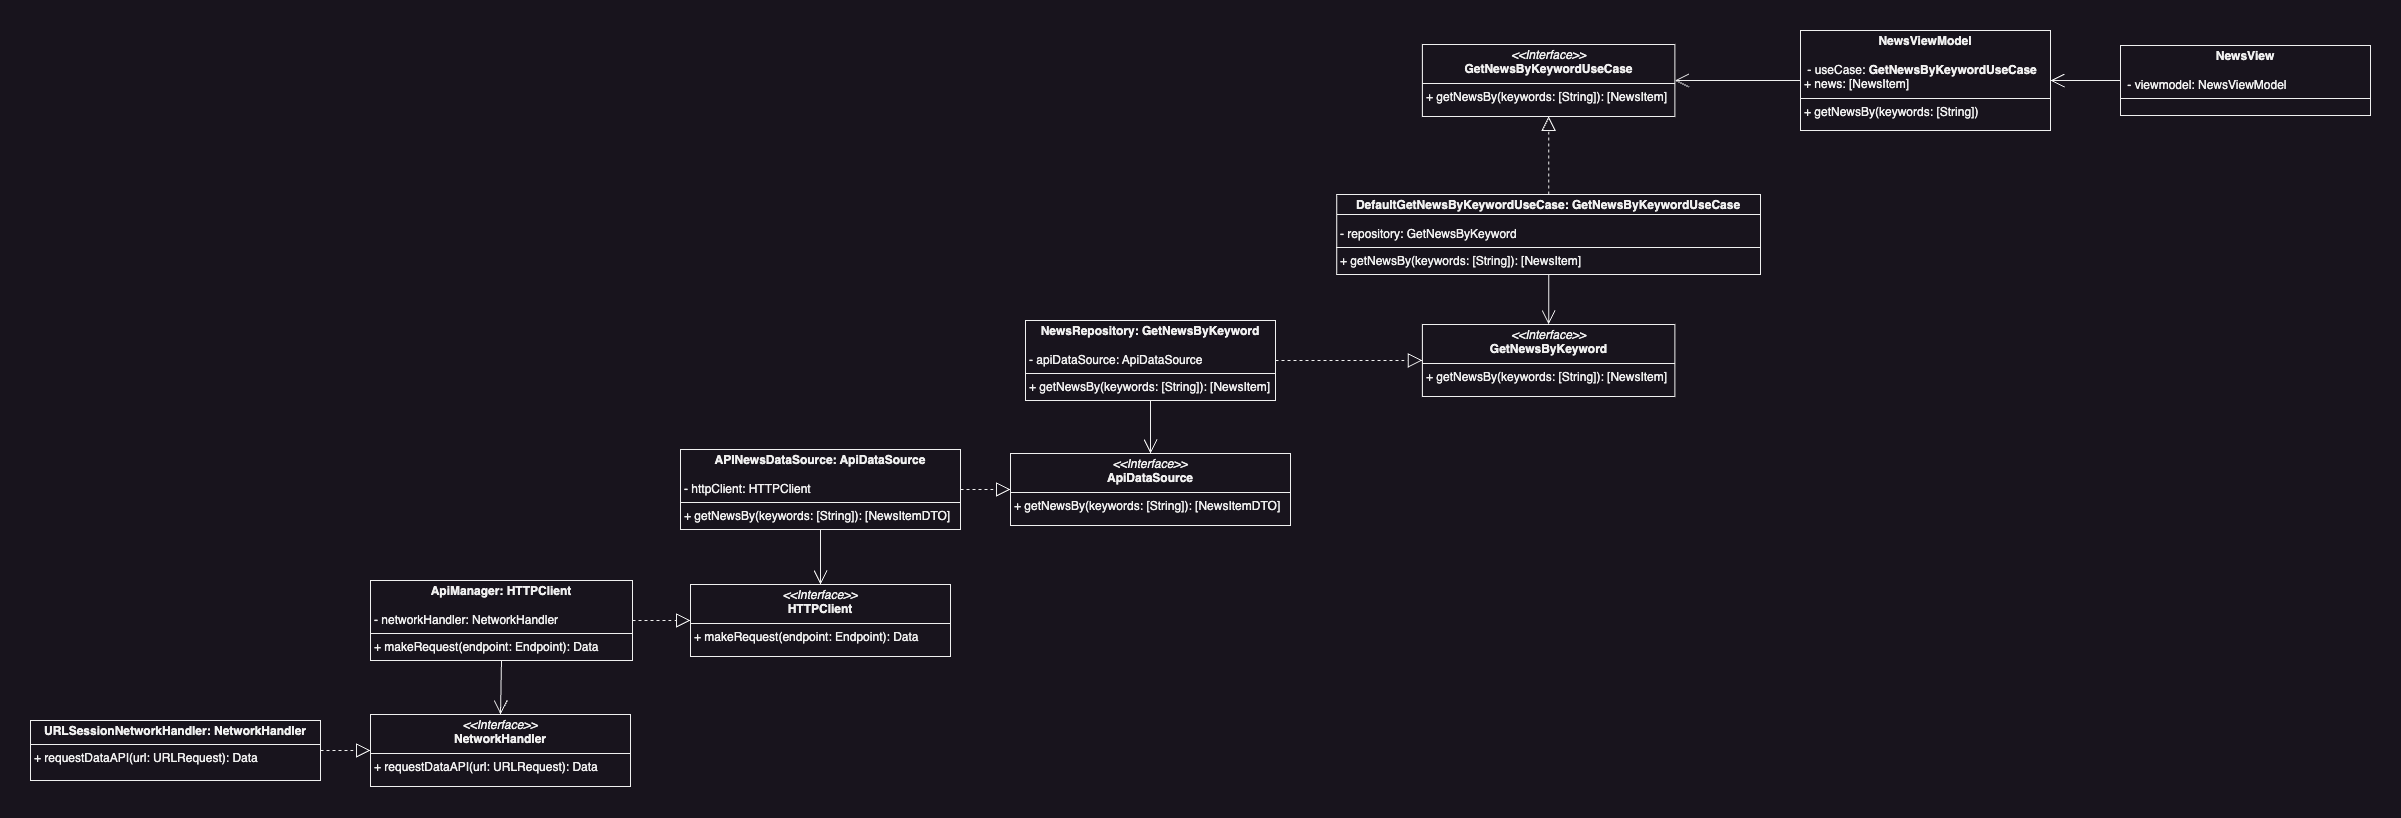
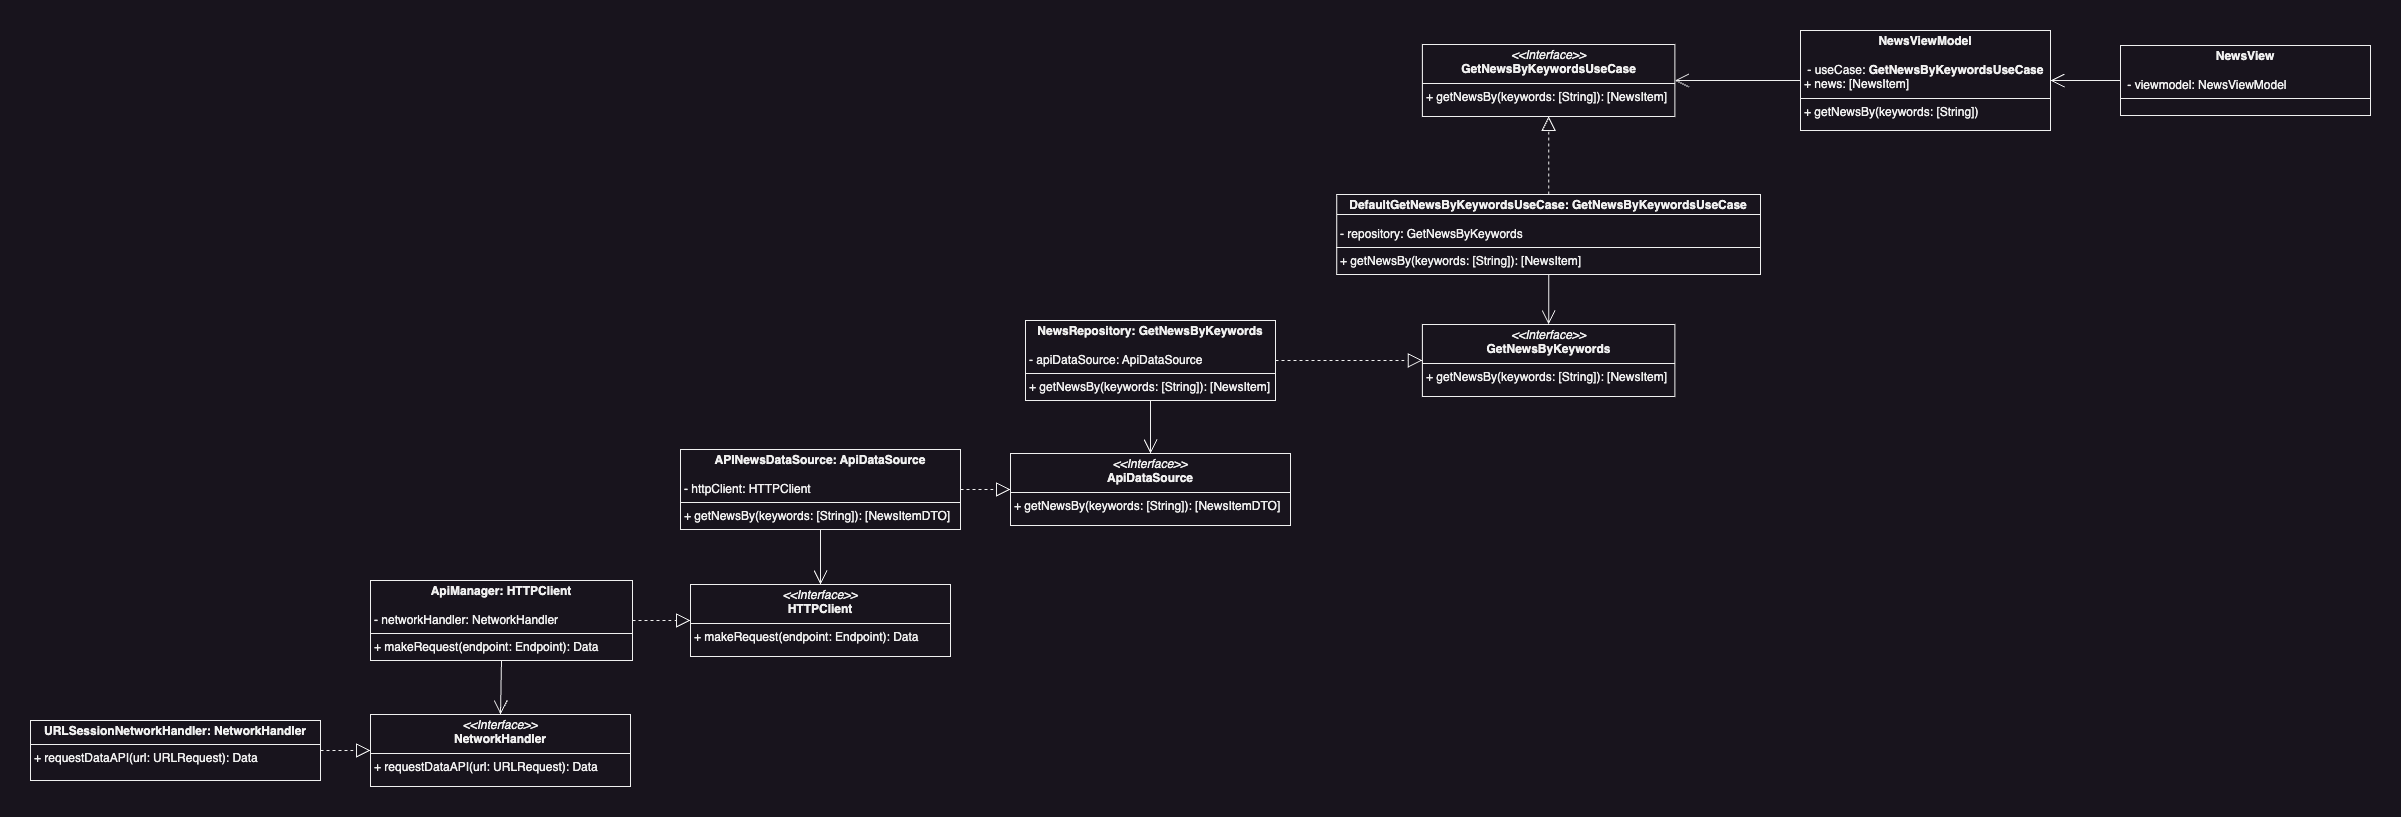
add content and new image

diff --git a/002_clean_architecture/article.md b/002_clean_architecture/article.md
@@ -2,7 +2,13 @@
 
 Se dice que una arquitectura es limpia cuando consigue una exitosa separación entre la lógica de negocio y los detalles de la infraestructura. Dicha separación se consigue mediante capas, una fuerte aplicación de los principios SOLID y un estricto cumplimiento de lo que llamaremos "La regla de la dependencia". Hablaremos de ella más adelante.
 
-Según Robert C. Martin, Uncle Bob, estas arquitecturas generan sistemas, productos, que son: 
+Acoplar la lógica de negocio y los detalles de infraestructura lleva siendo un problema desde que empezamos a desarrollar software, no es algo nuevo. Este movimiento no ha surgido en los últimos 10 años debido al purismo de algunos desarrolladores. No, el senior no está intentando ponértelo más difícil...
+
+Este problema ya existía cuando los programadores escribían software que leía información de tarjetas perforadas. ¿Qué creéis que pasaba cuando les pedían cambiar dicho programa para que ahora leyese la información de una cinta magnética?...
+
+La **"Clean Architecture"** nace en 2012 con una fuerte influencia de la **Arquitectura Hexagonal**, propuesta en 2005 por **Alistair Cockburn**. 
+
+Estas arquitecturas generan sistemas, productos, que son: 
 1. Independientes del framework usado.
 2. Con unas reglas comerciales que deben poder ser medibles sin depender de la interfaz del usuario, base de datos, servidor web, etc.
 3. Independientes de dicha interfaz de usuario. De hecho, ésta, debería poder ser intercambiable sin afectar a las reglas comerciales, a la anteriormente citada lógica de negocio.
@@ -11,7 +17,7 @@ Según Robert C. Martin, Uncle Bob, estas arquitecturas generan sistemas, produc
 
 > En resumen: Las reglas de negocio no deben de conocer nada de los detalles de infraestructura, para así no depender de estos. 
 
-Más en detalle...
+Centrémonos en nuestra arquitectura limpia más en detalle...
 
 ## Lógica de negocio
 
@@ -39,7 +45,7 @@ En su artículo de referencia, [aquí](https://blog.cleancoder.com/uncle-bob/201
 
 ¿Cómo podríamos llevarnos esta *clean architecture* a nuestro proyecto con SwiftUI o Jetpack Compose?, montémoslo paso a paso.
 
-### Core
+### Core layer (Entities)
 ---
 
 Contendría el código más estático, aquel del que va a depender el resto. Todas las capas exteriores van a depender de ésta, estarán acopladas a ella, por lo que cualquier cambio en esta capa tendrá repercusiones en el resto de capas de nuestra arquitectura. 
@@ -61,7 +67,9 @@ Nuestos modelos de dominio también los encontrarás citados, aquí o en otros a
 
 ![Capa core](images/CoreLayer.png)
 
-Los componentes de esta capa solo pueden tener dependencias entre ellos, tanto de los modelos como de los servicios, ya que están en la misma capa. Como podemos apreciar en esta representación, nuestra capa **core** no conoce nada fuera de su capa, no hay una capa inferior de la que dependa.
+¿Os dice poco esta representación?, puede que sí. Pero quiero que entendáis que para los componentes de esta capa su mundo es este. Los componentes de esta capa solo pueden tener dependencias entre ellos, tanto de los modelos como de los servicios, ya que están en la misma capa. 
+
+Como podemos apreciar en esta representación, nuestra capa **core** no conoce nada fuera de su capa, no hay una capa inferior de la que dependa ni exterior de la que tenga conocimiento. 
 
 ¿Qué tipo de acoplamiento podríamos tener en esta capa?, pues por ejemplo: la abstracción *CreditCard* podría tener una dependencia con *Movements* al tener que gestionar una colección de éstos.
 
@@ -142,10 +150,6 @@ Nadie espera tener que modificar las ruedas de una bicicleta, o el sistema de fr
 
 > Esta capa tiene la misma particularidad que la capa adaptadores, aunque las vistas están en la misma capa que los *data sources* éstos no se *"conocen"*, no tienen dependencias entre ellos ni por herencia ni por composición. En resumen, no están acoplados entre ellos. 
 
-Acoplar la lógica de negocio y los detalles de infraestructura lleva siendo un problema desde que empezamos a desarrollar software, no es algo nuevo. Este movimiento no ha surgido en los últimos 10 años debido al purismo de algunos desarrolladores. No, el senior no está intentando ponértelo más difícil...
-
-Este problema ya existía cuando los programadores escribían software que leía información de tarjetas perforadas. ¿Qué creéis que pasaba cuando les pedían cambiar dicho programa para que ahora leyese la información de una cinta magnética?...
-
 ## Ventajas e inconvenientes
 
 ### Ventajas
@@ -157,12 +161,10 @@ Este problema ya existía cuando los programadores escribían software que leía
 **Adaptabilidad:** Es más fácil adaptar la aplicación a nuevas tecnologías ya que los cambios en los detalles de la infraestructura no afectarán a la lógica de negocio, capa de dominio, etc.  
 **Reutilización de código:** Los componentes independendientes pueden ser reutilizados en otros proyectos.  
 
-
 ### Inconvenientes
 
 **Curva de aprendizaje:** Puede ser complicado de aprender y entender para desarrolladores juniors.  
 **Sobrecarga inicial:** La configuración y la estructura inicial pueden ser más complejas y consumir más tiempo que otras arquitecturas más simples.  
-**Sobreingeniería:** En aplicaciones pequeñas puede resultar en una sobreingeniería que no justifique los resultados obtenidos.  
 **Dificultad de implementación:** Requiere de desarrolladores con experiencia y un equipo disciplinado que siga las prácticas y principios establecidos.  
 
 ## Flujo y responsabilidades
@@ -173,7 +175,7 @@ Cuando, en este mismo artículo en la sección de Adaptadores, hablábamos del f
 
 > No hay una única manera de estructurar una arquitectura limpia, en base a la experiencia del desarrollador, a los requisitos de la aplicación, herramientas a usar, etc, nos podremos encontrar con una u otra forma. Por ejemplo, los DataSources, de los cuales veréis un ejemplo más adelante, hay desarrolladores que los "implementan" en la capa de adaptadores mientras que otros lo hacen en la de infraestructura. Al tratarse de una separación "lógica" puede no tener ninguna repercusión más allá de ubicarse en una estructura jerárquica de carpetas u otra. Mientras se respete la regla de la dependencia no debería haber ningún problema. En mi humilde opinión, si conoce información de infraestructura, como por ejemplo, datos muy concretos de cómo montar los endpoints de llamadas a apis debería estar en infraestructura. 
 
-Veamos ahora, mediante un diagrama UML, un resumen simplificado de una posible arquitectura limpia para un caso de uso en concreto. Imaginemos que queremos crear una aplicación de noticias. Uno de nuestros casos de uso principales es el de obtener un listado de noticias recientes en base a una palabra clave. ¿Cómo podríamos dividirlo?, veamos un ejemplo:
+Veamos ahora, mediante un diagrama UML, un resumen simplificado de una posible arquitectura limpia para un caso de uso en concreto. Imaginemos que queremos crear una aplicación de noticias. Uno de nuestros casos de uso principales es el de obtener un listado de noticias recientes en base a palabras clave. ¿Cómo podríamos dividirlo?, veamos un ejemplo:
 
 ![Esquema UML del caso de uso de obtención de noticias en base a una palabra clave](images/uml1.png)
 
@@ -181,7 +183,7 @@ Veamos ahora, mediante un diagrama UML, un resumen simplificado de una posible a
 
 ![Imagen del caso de uso y su interface](images/uml2.png)
 
-Nos encontramos en la capa de dominio, hemos creado nuestro caso de uso **GetNewsByKeywordUseCase**. ¿Cuál es su responsabilidad?, este caso de uso se ocupa de preparar los datos para aplicar correctamente la lógica de negocio. Por ejemplo, podría recibir los datos y, para cumplir con dicha lógica, ordenarlos en base a una determinada propiedad: nombre, publicación...  
+Nos encontramos en la capa de dominio, hemos creado nuestro caso de uso **GetNewsByKeywordsUseCase**. ¿Cuál es su responsabilidad?, este caso de uso se ocupa de preparar los datos para aplicar correctamente la lógica de negocio. Por ejemplo, podría recibir los datos y, para cumplir con dicha lógica, ordenarlos en base a una determinada propiedad: nombre, publicación...  
 
 También podría ocuparse de filtrar los artículos para excluir aquellos cuyo contenido se considerase inapropiado, etc. En resumen, una vez obtenidos los datos los tendría listos para ser devueltos a quien los requiriese.   
 
@@ -190,30 +192,30 @@ También podría ocuparse de filtrar los artículos para excluir aquellos cuyo c
 
 > En el principio SOLID **Inversión de la dependencia**, en muchas ocasiones, se hace referencia a que los módulos de alto nivel no deberían depender de los módulos de bajo nivel y que, ambos, deberían depender de abstracciones. 
 >
-> Con módulos de alto nivel se refieren a nuestra lógica de dominio, nuestra reglas de negocio, nuestras entidades...
+> Con módulos de alto nivel se refieren a nuestra lógica de dominio, nuestra reglas de negocio, nuestras entidades. Son aquellas que están lo más alejadas de la entrada - salida de datos.
 > Nos indica que estos módulos no deberían de depender, por ejemplo, de componentes de la capa de infraestructura como la interfaz de usuario o la base de datos.
 
 ### Adapters -> Repository
 
 ![Imagen del repositorio y su interface](images/uml3.png)
 
-Pasamos a la capa Adaptadores y nos encontramos con una clase que implementa el protocolo, la interface, GetNewsByKeyword. ¿Qué nos indica?, que puede ser inyectada como dependencia en la clase GetNewsByKeywordUseCase. Y de esta forma cumplimos, una vez más con nuestra regla de la dependencia. GetNewsByKeywordUseCase no "conoce" nada de su capa superior, no "sabe" nada de NewsRepository o ApiDataSource. Ni lo necesita, y eso es fantástico, ¿por qué?, porque no está acoplado a nada de esta capa Adaptadores. Cualquier cambio que se realice en dicha capa podrá afectar a componentes de su misma capa o de su capa más superficial, infraestructura, pero nunca a la capa de dominio. No es magia, es una buena arquitectura.  
+Pasamos a la capa Adaptadores y nos encontramos con una clase que implementa el protocolo, la interface, GetNewsByKeywords. ¿Qué nos indica?, que puede ser inyectada como dependencia en la clase GetNewsByKeywordsUseCase. Y de esta forma cumplimos, una vez más con nuestra regla de la dependencia. GetNewsByKeywordsUseCase no "conoce" nada de su capa superior, no "sabe" nada de NewsRepository o ApiDataSource. Ni lo necesita, y eso es fantástico, ¿por qué?, porque no está acoplado a nada de esta capa Adaptadores. Cualquier cambio que se realice en dicha capa podrá afectar a componentes de su misma capa o de su capa más superficial, infraestructura, pero nunca a la capa de dominio. No es magia, es una buena arquitectura.  
 
 En esta capa, adaptadores, se encuentran los componentes que se encargan de convertir los datos que nos provee la capa de infraestructura, los convencionalmente llamados DTOs, en los modelos de datos que requieren nuestras casos de uso, normalmente llamados Entities, Data Models, etc. También a la inversa, estos componentes se ocuparán de crear, mediante los modelos de datos de dominio, los datos más convenientes para la base de datos de turno, api rest o similar.  
 
 ¿Responsabilidades de esta clase NewsRepository?, obtener los datos de la fuente externa que toque, en sus modelos, y convertirlos en nuestros modelos de dominio. A esta operación la solemos llamar mapear.   
 
-De nuevo, ¿dos responsabilidades?, no. Para la obtención de los datos en bruto del servicio, base de datos, etc, se apoya en un DataSource, una clase que se encarga de esa responsabilidad. Y aunque no lo he especificado para no agregar más complejidad al ejemplo, también el proceso de mapeo sería delegado en otra clase...
+De nuevo, ¿dos responsabilidades?, no. Para la obtención de los datos en bruto del servicio, base de datos, almacenamiento local, etc, se apoya en un DataSource, una clase que se encarga de esa responsabilidad. Y aunque no lo he especificado para no agregar más complejidad al ejemplo, también el proceso de mapeo sería delegado en otra clase...
 
-> Para más información sobre este tipo de clases se pueden revisar los patrones de diseño Facade y Adapter, pues comparte similitudes con ambos. 
+> Para más información sobre este tipo de clases se pueden revisar los patrones de diseño **Facade** y **Adapter**, pues comparte similitudes con ambos. 
 
-¿Cómo realizamos la relación entre la clase NewsRepository y los componentes de su capa más exterior?, también mediante inversión de dependencias. La interface ApiDataSource declara lo que la clase NewsRepository necesita y se "olvida" de su capa superior, no es su problema.
+¿Cómo realizamos la relación entre la clase NewsRepository y los componentes de su capa más externa?, también mediante inversión de dependencias. La interface ApiDataSource declara lo que la clase NewsRepository necesita y se "olvida" de su capa superior, no es su problema.
 
 La capa superior tendrá la responsabilidad de crear un componente que pueda cubrir la necesidad impuesta por la interface ApiDataSource. Y este componente, sea cual sea, podrá ser inyectado como dependencia en NewsRepository. Pero NewsRepository no sabrá qué implementación concreta está siendo inyectada, por lo que no estará acoplada a ella y una futura modificación de esta nunca podrá afectarle. No podrá afectar a nada de la capa de dominio, ni casos de uso, ni entidades. Estoy repitiendo algo que he comentado tres párrafos más arriba, ¡porque es vital que se entienda!.  
 
 > Said Rehouni, en su [canal de youtube](https://www.youtube.com/@SaidRehouni) y su [curso sobre clean architecture](https://www.youtube.com/watch?v=nILL3UXrMS0) advierte ante la creación de repositorios masivos en los que se acumulen la resolución de las necesidades de todos los casos de uso asociados a una misma feature. Habla sobre que esto crea una mayor dificultad para testear dichos repositorios, mockearlos y que hace que incumplan el principio de responsabilidad única. 
 >
-> Este principio nos dice que una clase solo debería tener un motivo para cambiar. Si dicho repositorio está gestionando todos los casos de uso de una misma feature, con sus distintos modelos de datos, etc, es muy posible que sea susceptible a cambiar con cada una de las modificaciones que puedan realizarse en cada uno de estos modelos de datos. 
+> Este principio nos dice que una clase solo debería tener un motivo para cambiar. Si dicho repositorio está gestionando todos los casos de uso de una misma feature, con sus distintos modelos de datos, etc, es muy posible que sea susceptible a cambiar con cada una de las modificaciones que puedan realizarse en éstos. 
 >
 > Para estos casos recomienda crear distintos **repositories** para atender a una misma feature. 
 
